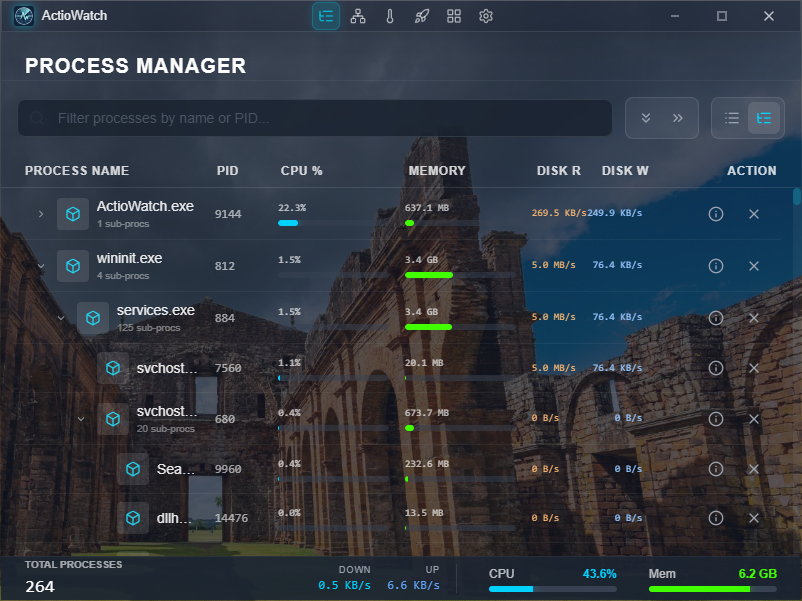
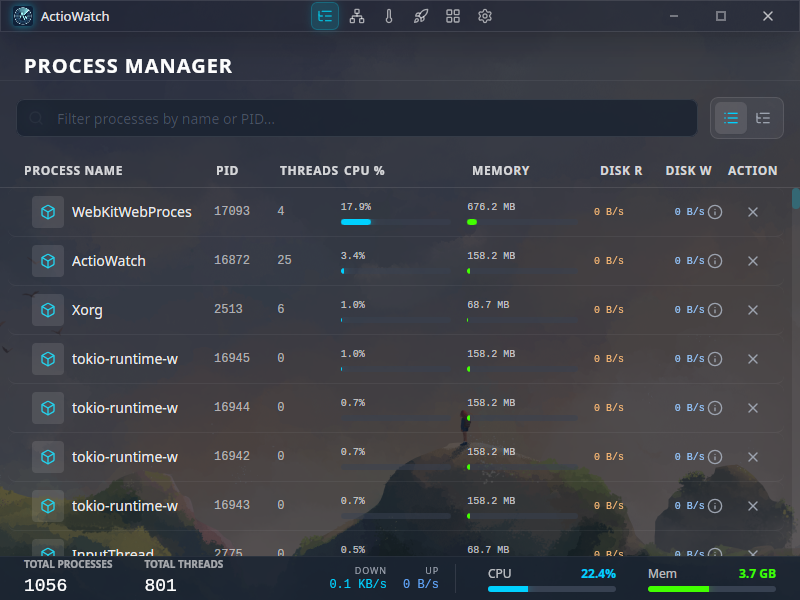
edit: Screenshots

diff --git a/README.md b/README.md
@@ -98,9 +98,9 @@ ActioWatch leverages modern web technologies for the frontend and the performanc
 | :---: | :---: |
 | ![Process Details](screenshots/screen7.png) | ![Widget Mode](screenshots/screen8.png) |
 
-| Hardware Monitor | Three View |
+| Hardware Monitor | List View |
 | :---: | :---: |
-| ![Hardware Monitor](screenshots/screen9.png) | ![Three View](screenshots/screen1.png) |
+| ![Hardware Monitor](screenshots/screen9.png) | ![List View](screenshots/screen1.png) |
 
 ## License
 
